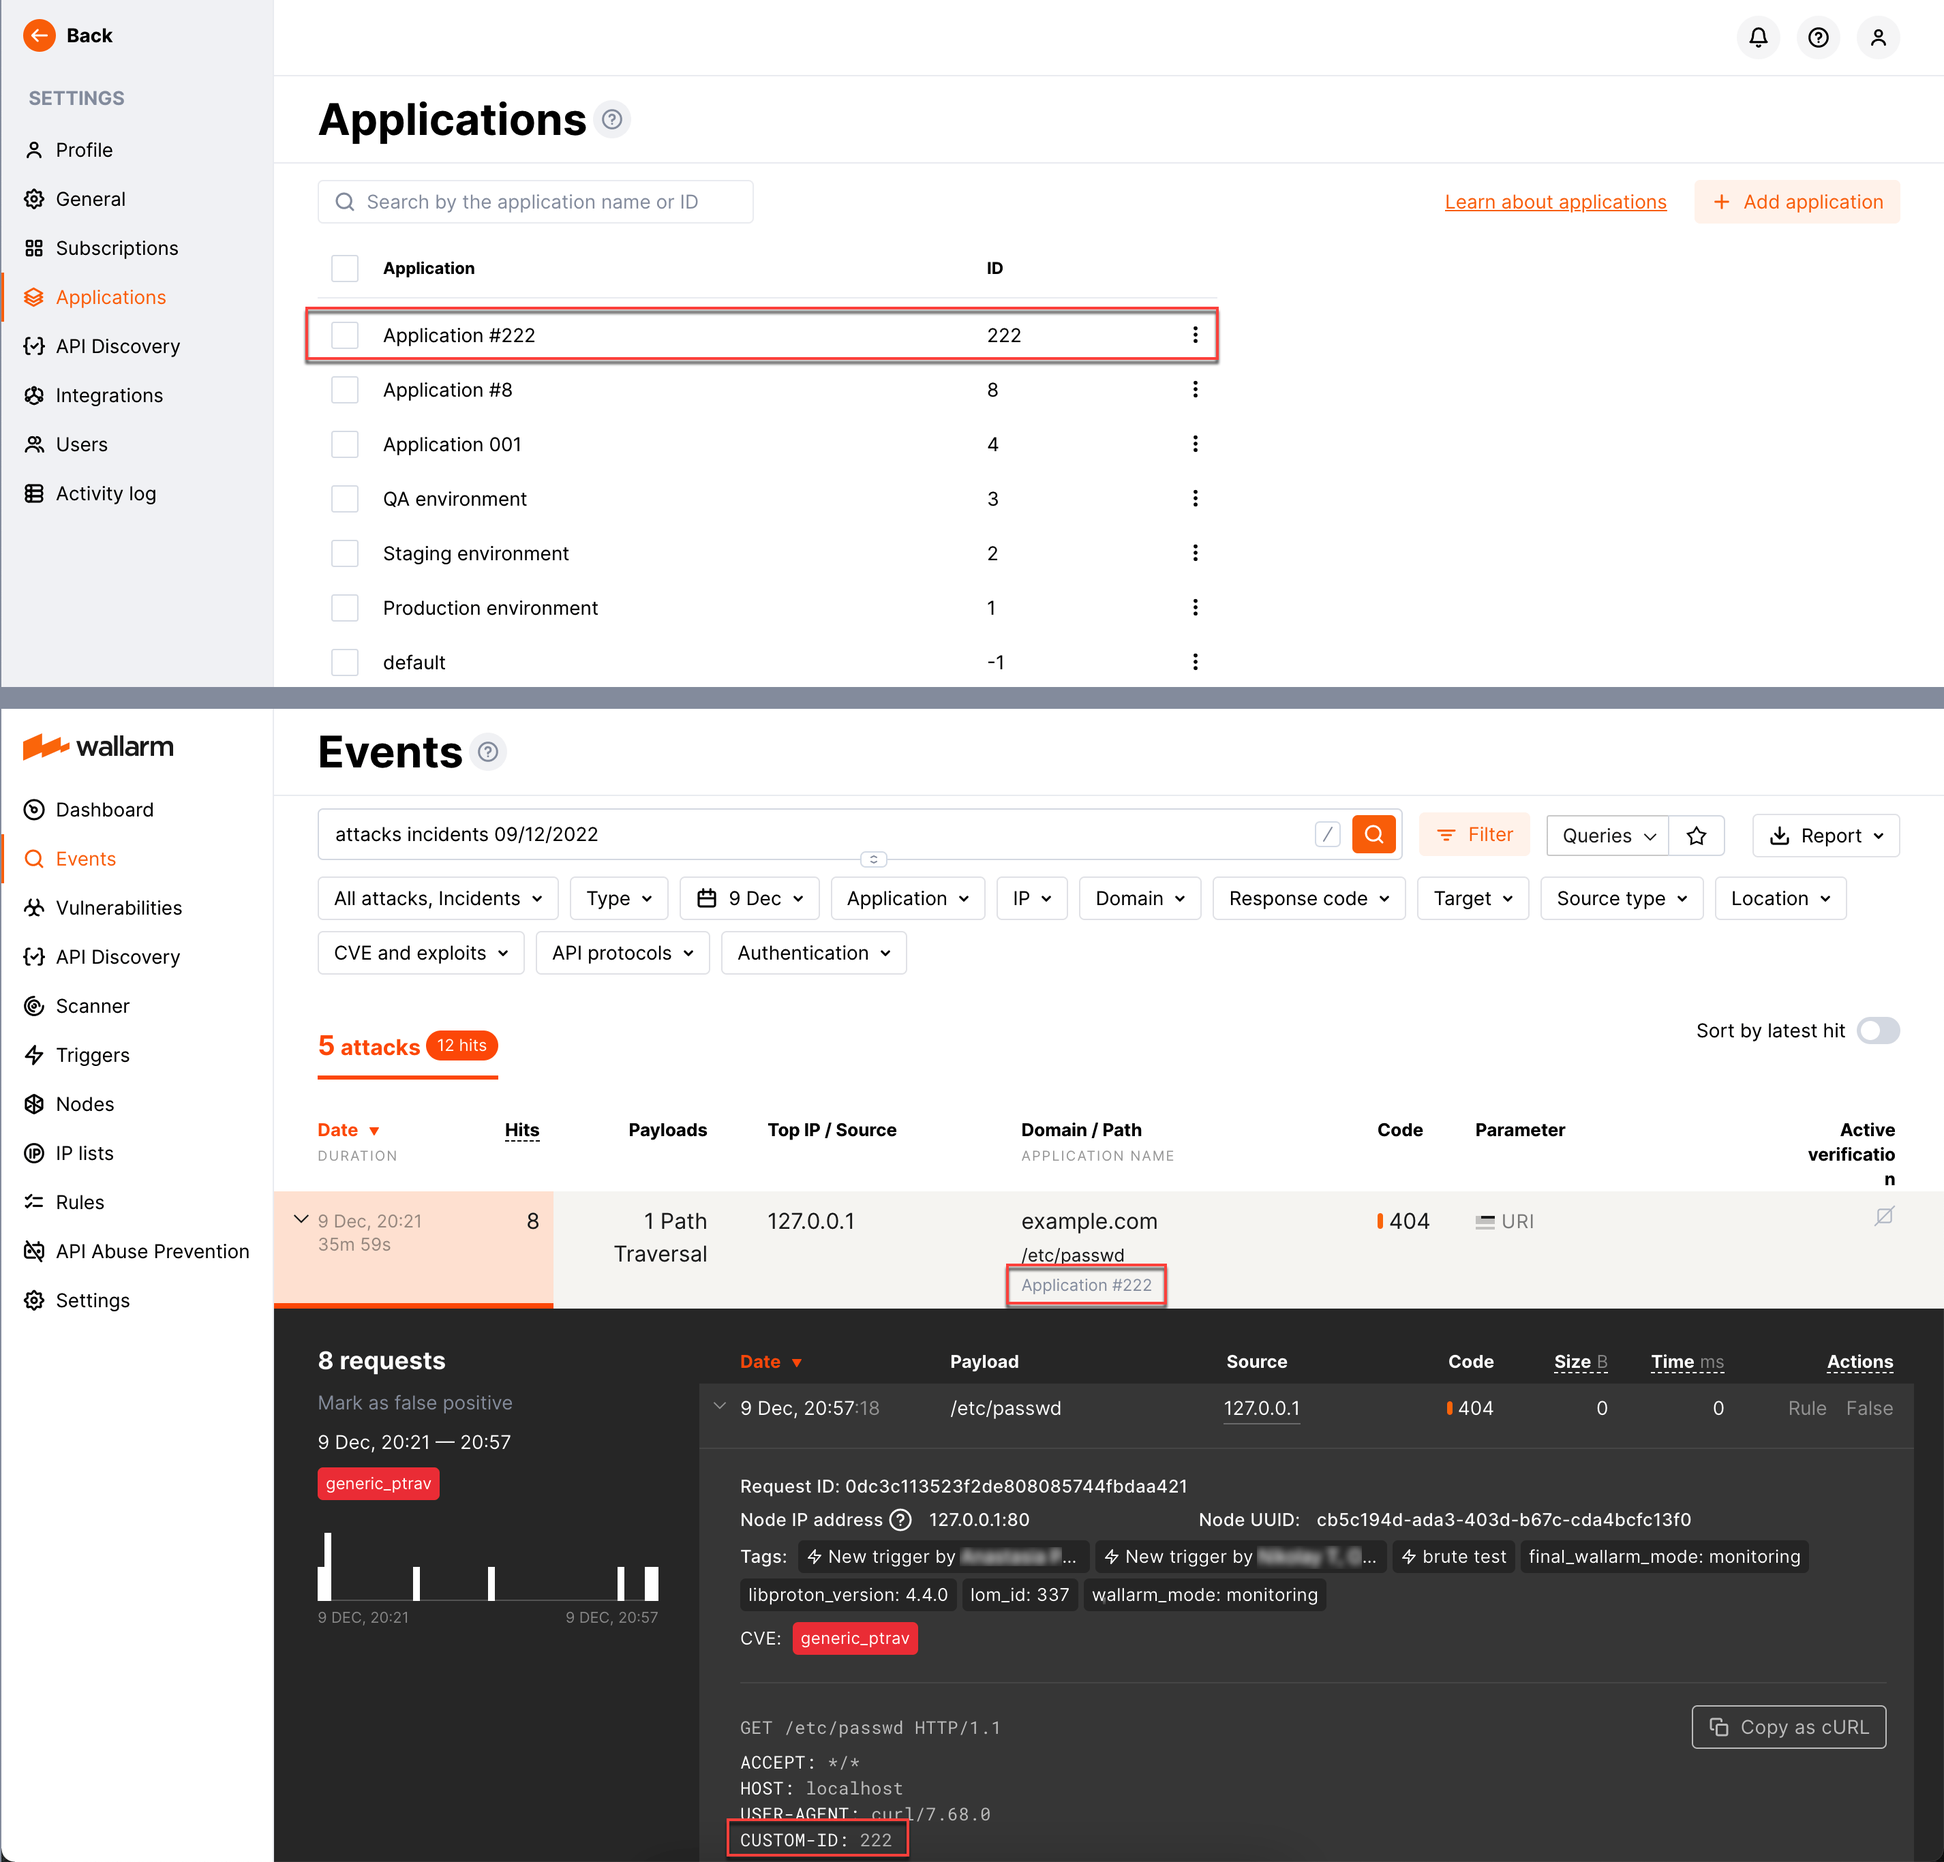
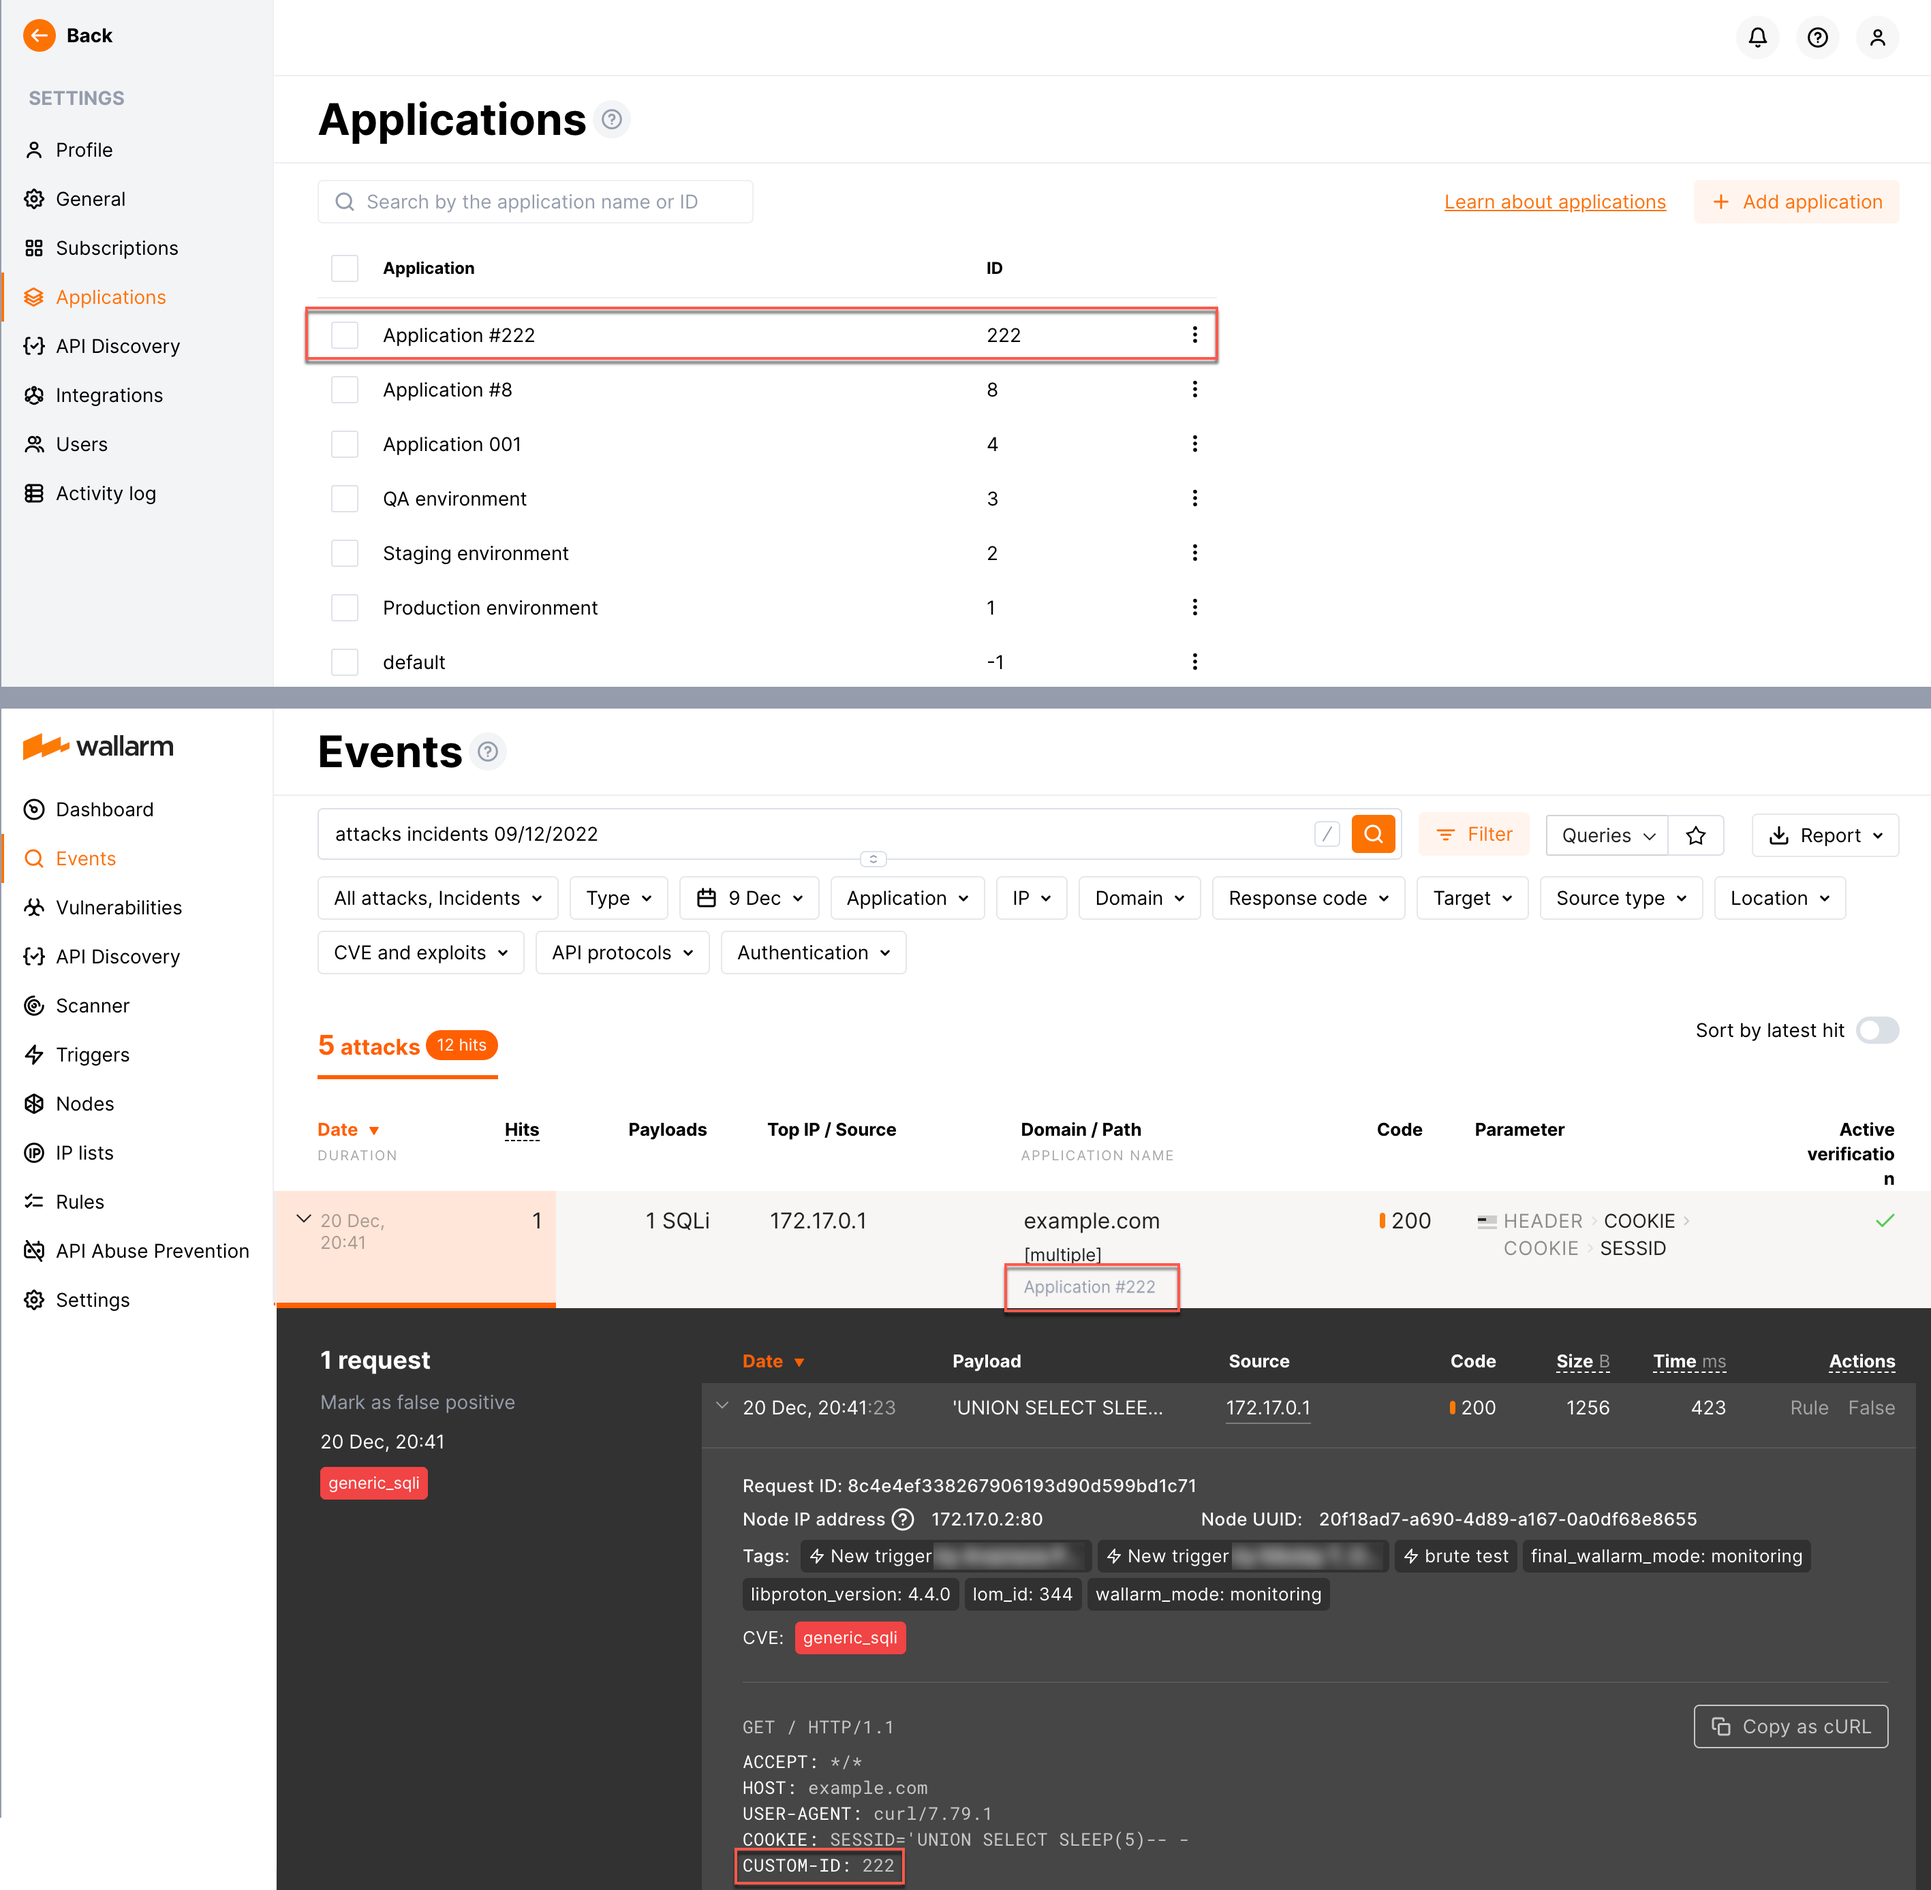
DOCS-1871 Sample request fix

diff --git a/docs/latest/user-guides/settings/applications.md b/docs/latest/user-guides/settings/applications.md
@@ -71,10 +71,10 @@ server {
 Attack request example:
 
 ```
-curl -H "CUSTOM-ID: 222" http://example.com/etc/passwd
+curl -H "Cookie: SESSID='UNION SELECT SLEEP(5)-- -" -H "CUSTOM-ID: 222" http://example.com
 ```
 
-This request will:
+This request will:`
 
 * Be considered an attack and added to the **Events** section.
 * Be associated with application with ID `222`.
